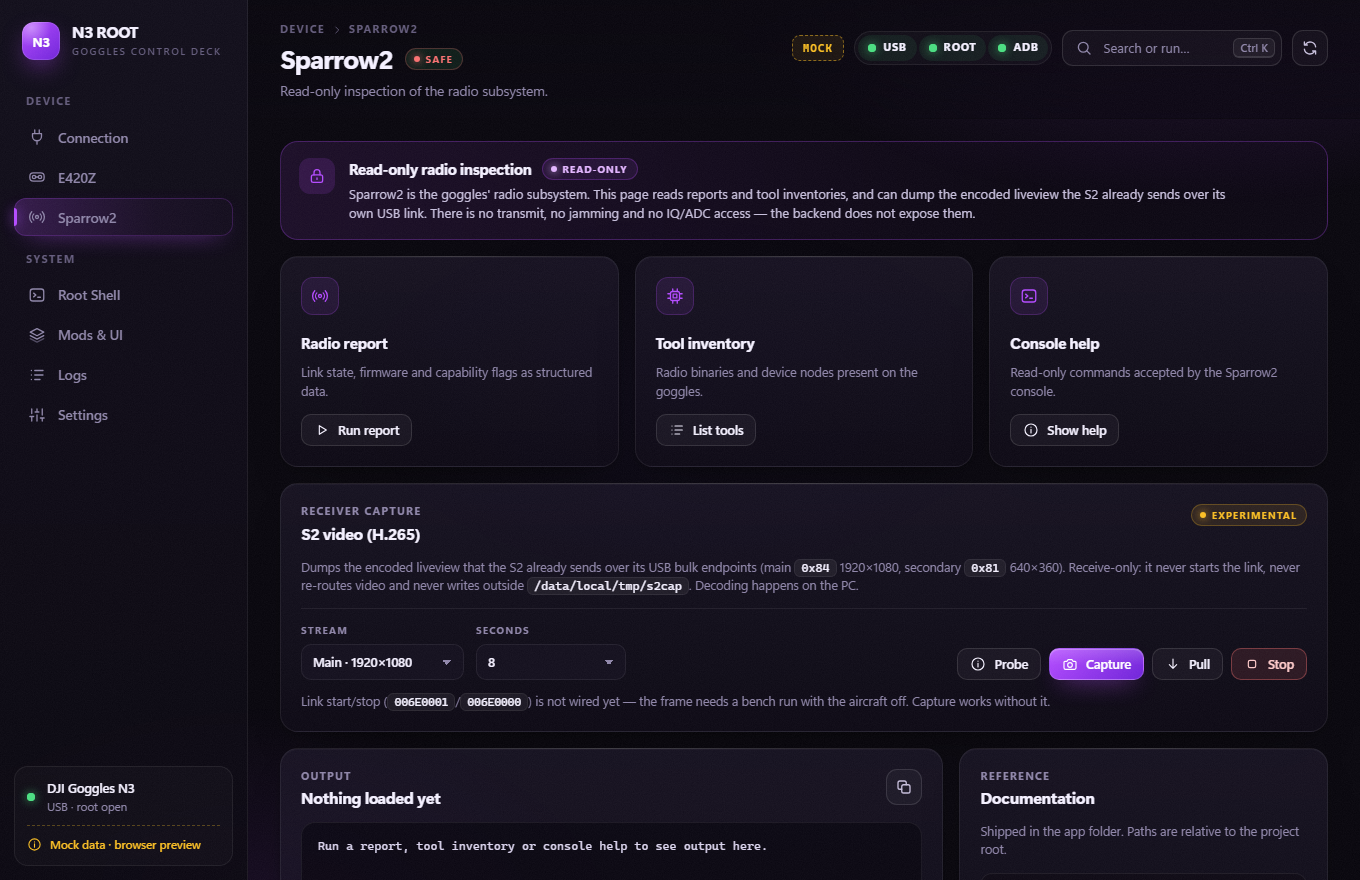
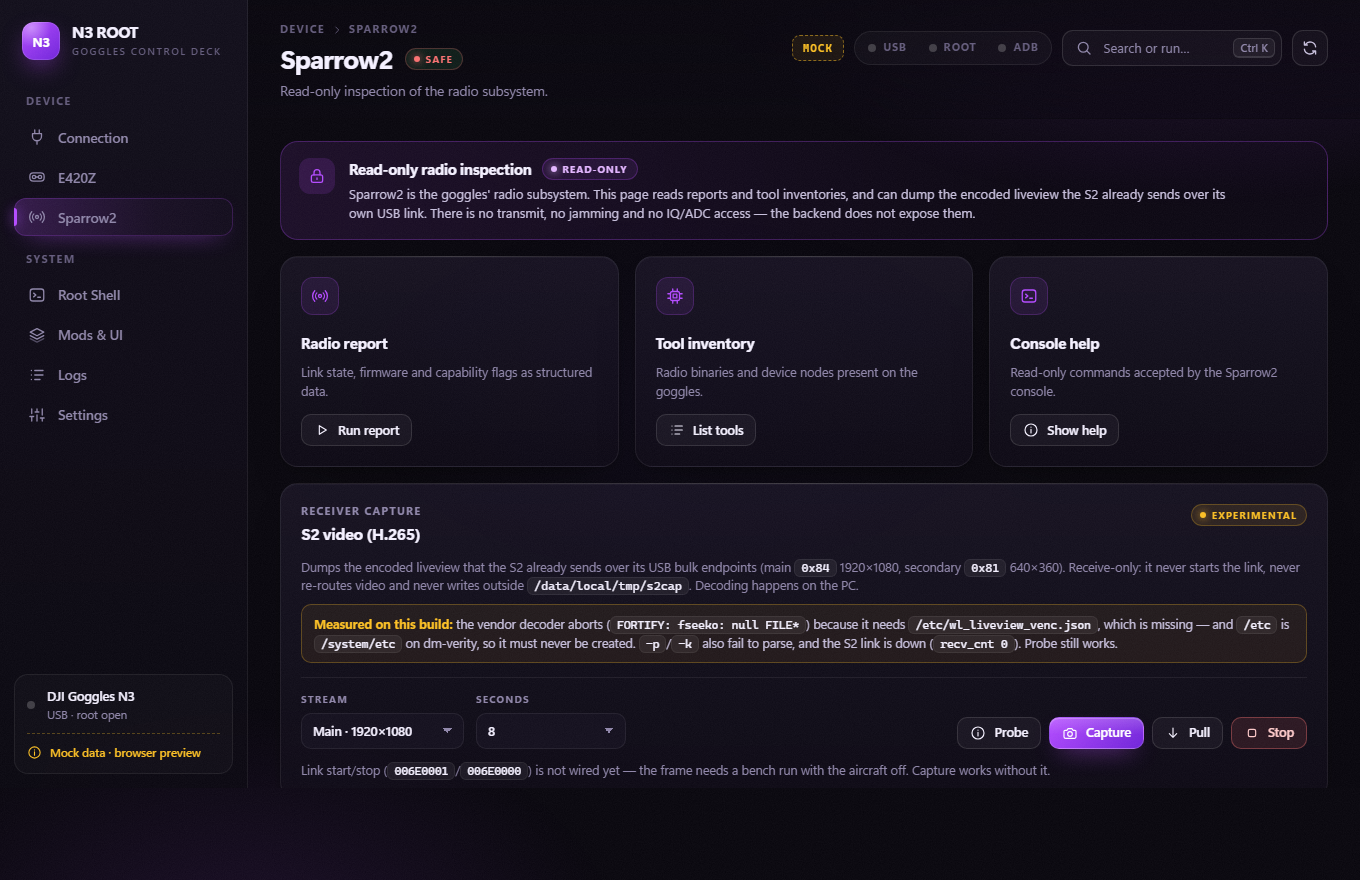
Record the measured S2 capture result and surface the exact blocker in the app

diff --git a/app/web/index.html b/app/web/index.html
@@ -334,6 +334,14 @@
             Receive-only: it never starts the link, never re-routes video and never
             writes outside <code>/data/local/tmp/s2cap</code>. Decoding happens on the PC.
           </p>
+          <p class="hint s2-blocked">
+            <strong>Measured on this build:</strong> the vendor decoder aborts
+            (<code>FORTIFY: fseeko: null FILE*</code>) because it needs
+            <code>/etc/wl_liveview_venc.json</code>, which is missing — and
+            <code>/etc</code> is <code>/system/etc</code> on dm-verity, so it must never
+            be created. <code>-p</code>/<code>-k</code> also fail to parse, and the S2
+            link is down (<code>recv_cnt 0</code>). Probe still works.
+          </p>
           <div class="s2-controls">
             <label class="s2-field">
               <span>Stream</span>
@@ -360,8 +368,9 @@
           </div>
           <div class="s2-files" id="s2Files" hidden></div>
           <p class="hint s2-note">
-            Link start/stop (<code>006E0001</code>/<code>006E0000</code>) is not wired
-            yet — the frame needs a bench run with the aircraft off. Capture works without it.
+            Link start/stop (<code>006E0001</code>/<code>006E0000</code>) is not
+            configured on this build — the <code>start_cmd</code> and
+            <code>finish_cmd</code> arrays in <code>wlm_cfg.json</code> are empty.
           </p>
         </article>
 

diff --git a/app/web/styles.css b/app/web/styles.css
@@ -1288,6 +1288,13 @@ h1 {
 .s2-files button[aria-pressed="true"] { border-color: var(--accent); color: var(--accent-soft); }
 .s2-note { margin-top: 12px; }
 .s2-note code { font-family: var(--font-mono); font-size: 11.5px; }
+.s2-blocked {
+  margin-top: 10px; padding: 10px 12px; border-radius: 10px;
+  border: 1px solid rgba(var(--exp-rgb), .28);
+  background: rgba(var(--exp-rgb), .07); color: var(--text-2);
+}
+.s2-blocked strong { color: var(--exp); }
+.s2-blocked code { font-family: var(--font-mono); font-size: 11.5px; color: var(--text); }
 
 .doc-list { display: flex; flex-direction: column; gap: 8px; margin: 14px 0 0; padding: 0; list-style: none; }
 .doc-list li {

diff --git a/app/webapp.py b/app/webapp.py
@@ -414,9 +414,18 @@ class Api:
                                 timeout=secs + 40)
             files = self._s2_files()
             if not files:
+                log = text or ""
+                if "FORTIFY" in log or "parse command failed" in log:
+                    return _fail(
+                        "Blocked on this build: the vendor decoder aborts with "
+                        "'FORTIFY: fseeko: null FILE*' because it wants "
+                        "/etc/wl_liveview_venc.json, which does not exist. /etc "
+                        "is /system/etc (dm-verity, read-only) so it must never "
+                        "be created. -p and -k also fail to parse here, and the "
+                        "S2 link is down (logcat: recv_cnt 0).",
+                        text=_clip(text, 12000))
                 return _fail(
-                    "The decoder produced no file. Check the run log above; "
-                    "this build may reject -p (retry with stream 'auto').",
+                    "The decoder produced no file. Check the run log above.",
                     text=_clip(text, 12000))
             return _ok("Captured %d file(s) at %s." % (len(files), self.S2_DIR),
                        text=_clip(text, 12000), files=files)

diff --git a/docs/SPARROW2.md b/docs/SPARROW2.md
@@ -317,8 +317,9 @@ test_wl_vdec -t usb_vdec -p 0 -F 1 -w 1920 -h 1080 -C yuv420 \
              -d -e /data/local/tmp/s2cap -b s2_main
 ```
 
-- `-p 0` selects main, `-p 1` secondary. **Some builds reject `-p`**; omit it
-  and the tool picks a stream itself (the app offers "Auto (no -p)").
+- `-p` is `[--port] port` in the usage text (0 = main, 1 = secondary by
+  `wl_port_id`), but on this build **it fails to parse**, as does `-k`. Omit
+  both; the app's "Auto (no -p)" option does exactly that.
 - The write itself lives in `libduml_frwk.so` (`fopen`/`fwrite`/`strftime`,
   keys `dump_wl_stream_path`, `dump_stream_name`, `dump_stream_enable`).
 - Output is an elementary stream; remux or decode on the PC.
@@ -329,27 +330,72 @@ There is also `record_test_script.sh`, which routes video to the e3t vdec
 video pipeline and may blank the goggles display until reboot.
 
 Link start/stop (`wlm_cfg.json` → `test.liveview`, opcodes `006E0001` /
-`006E0000`) is the supported way to make the S2 stream without the media
-server. It is **not wired** yet: the DUML frame for those opcodes has to be
-confirmed on the bench with the aircraft off before anything is sent to the
-radio.
+`006E0000`) would be the supported way to make the S2 stream without the media
+server. On this build the `start_cmd` and `finish_cmd` arrays are **empty**, so
+those opcodes are simply not configured — nothing to send.
+
+### Measured on the device (2026-11-26)
+
+Everything below is from the owner's N3, root shell up, no captures written.
+
+| Check | Result |
+|---|---|
+| S2 enumerates on the goggles' USB bus | **Yes** — `/sys/bus/usb/devices/2-1  2ca3:1020` |
+| Interface 3 endpoint | **Yes** — `/sys/bus/usb/devices/2-1:1.3/ep_84` present |
+| `test_wl_vdec` present | **Yes** — `/system/bin/test_wl_vdec`, 33,416 bytes |
+| `-d` is the encoded-stream dump | **Yes** — usage: `-d [--set_dump] enable dump encoded stream` |
+| `-p 0` selects main | **No** — `-p` is `[--port] port`, and **fails to parse** (`rc=255`, usage printed). `-k` fails the same way |
+| `test_wl_vdec -t usb_vdec …` (vendor's own example) | **Aborts** — `FORTIFY: fseeko: null FILE*`, `rc=133` (SIGTRAP) |
+| Why it aborts | `wlm_cfg.json` points `test.liveview_venc_cfg` at `/etc/wl_liveview_venc.json`, which **does not exist**. `/etc` is `/system/etc` on `dm-0` (dm-verity, ro) — creating it would be a `/system` write |
+| `test.liveview` start/finish commands | **Empty arrays** in `/system/etc/wlm_cfg.json` — `006E0001`/`006E0000` are not configured on this build |
+| S2 link state | **Down** — logcat `wlm_ds_common_dump … recv_cnt 0, recv_bytes 0, freq 0, bitrate 0`; `failed to get target dev` |
+
+The **real** readers are OMX graph nodes, not the test tool:
+
+- `secondary_liveview_pipe.json` → `OMX.dji.video_reader.wlvdec` with
+  `usb_interface: 0`, `usb_ep_in: 129` (`0x81`), `input_fmt: h265`,
+  `wl_port_id: 1`, 640×360 — the S2 secondary stream.
+- `app_liveview_pipe.json` → `OMX.dji.video_reader.mdc` on the already-decoded
+  `zv900_liveview_lcdc_chn` (1920×1080), re-encoded to AVC for the phone app.
+- `wlm_cfg.json` gives the main channel to `media_server` (`0x1c07`) as
+  `usbv2`, `vid 2ca3 pid 1020 interface 3 ep_in 84`.
+
+So the encoded H.265 for the **main** stream is owned by `media_server` on USB
+interface 3. Reading it from a second process means competing with the running
+media server, and the vendor's own test reader (`wlvdec`) is addressed by
+`wl_port_id`, not by `-p`.
 
 ### Status
 
 | Step | State |
 |---|---|
-| Read-only probe (decoder, USB ids, wlm config, record tools) | implemented, untested on-device |
-| `test_wl_vdec -d` dump | implemented, **not yet confirmed on this build** |
-| Pull to PC | implemented |
+| Read-only probe | **works on-device** |
+| `test_wl_vdec -d` dump | **blocked** — vendor tool aborts, config missing on `/system` |
+| Pull to PC | implemented, not exercised (nothing captured) |
 | `record_test_script.sh` route | documented only, deliberately not wired |
-| `006E0001` / `006E0000` start/stop | not wired, needs a bench run |
+| `006E0001` / `006E0000` start/stop | **not available** — arrays empty in this build's config |
+
+### What this means
+
+The USB endpoint and the encoding are real; the *shipped test tool* is not
+usable here, and the config it wants is on dm-verity `/system`, so it cannot be
+supplied safely. Two independent blockers:
+
+1. The vendor decoder needs `/system/etc/wl_liveview_venc.json`. Writing it is
+   a `/system` write → brick on reboot. **Never do this.**
+2. Even a working reader gets nothing right now: the S2 link is down
+   (`recv_cnt 0`), because no aircraft/air unit is paired.
+
+Until one of those changes, the practical way to get S2 video onto the PC is
+the existing **E420Z live preview**, which mirrors the goggles display — i.e.
+the already-decoded liveview.
 
 ### Safety
 
 - Receive-only. The app never starts the link, never tunes, never transmits.
 - Writes only `/data/local/tmp/s2cap`. No `/system`, no verity, no partitions.
-- `-p` is treated as optional so a rejected flag can never leave a decoder
-  spinning: every capture is time-boxed and `stop` kills only `test_wl_vdec`.
+- `-p`/`-k` were tested and rejected by the binary, so the app treats them as
+  optional and time-boxes every run. `stop` kills only `test_wl_vdec`.
 
 ---
 

diff --git a/docs/CHANGELOG.md b/docs/CHANGELOG.md
@@ -1,5 +1,31 @@
 # Changelog
 
+## Unreleased — S2 capture measured on-device (2026-11-26)
+
+- Ran the S2 capture path on the owner's N3 with the root shell up. **Result:
+  blocked, and correctly so.**
+  - Confirmed the S2 enumerates as `2ca3:1020` with interface 3 / EP `0x84`.
+  - `test_wl_vdec` exists and `-d` really is "dump encoded stream", but the
+    vendor's own `-t usb_vdec` example aborts with `FORTIFY: fseeko: null
+    FILE*` (SIGTRAP).
+  - Cause: `/system/etc/wlm_cfg.json` points `test.liveview_venc_cfg` at
+    `/etc/wl_liveview_venc.json`, which does not exist. `/etc` is
+    `/system/etc` on dm-verity, so it must never be created — that would be a
+    `/system` write and a guaranteed brick on reboot.
+  - `-p` and `-k` fail to parse on this build (`rc=255`, usage printed).
+  - `test.liveview.start_cmd` / `finish_cmd` are **empty arrays**, so
+    `006E0001`/`006E0000` are not configured here at all.
+  - The S2 link is down: logcat `recv_cnt 0, recv_bytes 0, freq 0, bitrate 0`.
+- The real readers are OMX nodes: `wlvdec` (`wl_port_id`, iface 0 EP `0x81`,
+  h265 640×360) and `media_server` holding iface 3 EP `0x84` for the main
+  stream. Documented in `SPARROW2.md` §10A.
+- The app now returns that exact diagnosis instead of a generic failure, and
+  the Sparrow2 card carries a "measured on this build" note.
+- Practical route for S2 video today: the existing E420Z live preview, which
+  mirrors the already-decoded goggles display.
+- Device left as found: decoder killed, test logs removed, only
+  `/data/local/tmp/s2cap.sh` added.
+
 ## Unreleased — S2 video capture (2026-11-26)
 
 - New **S2 video capture** mod (`s2cap`, type `tool`, data-only): installs
